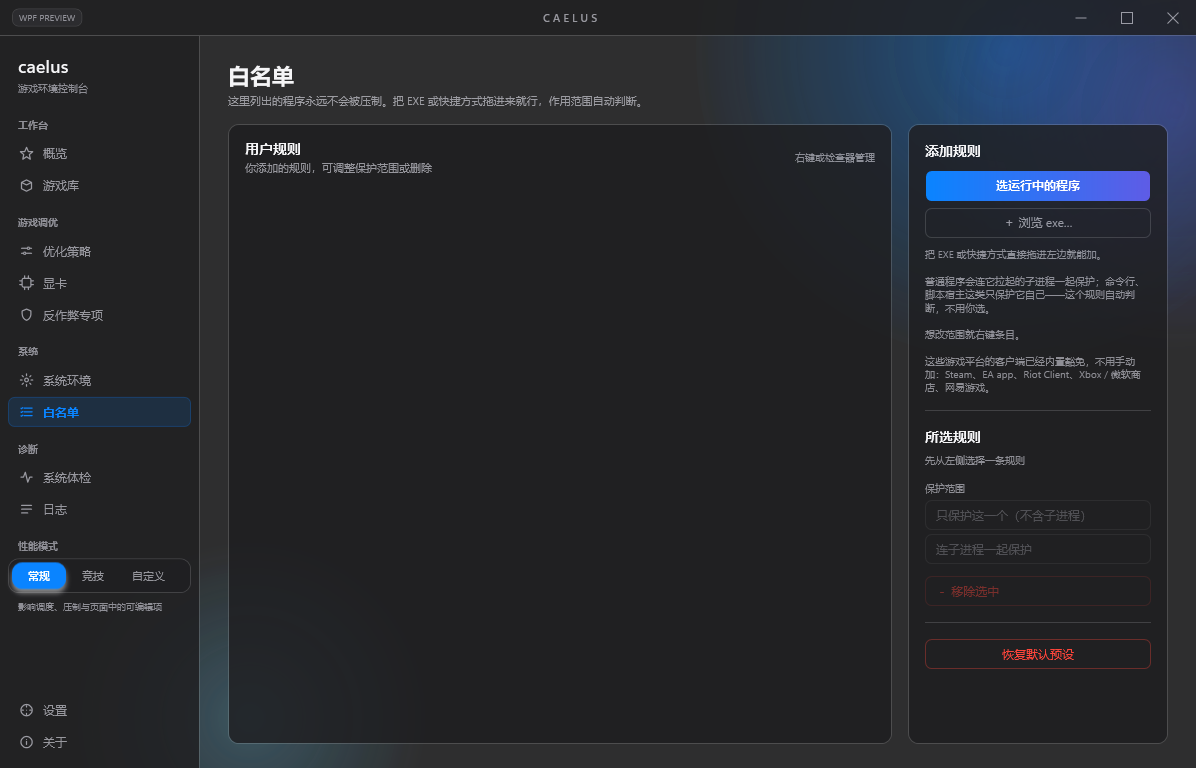
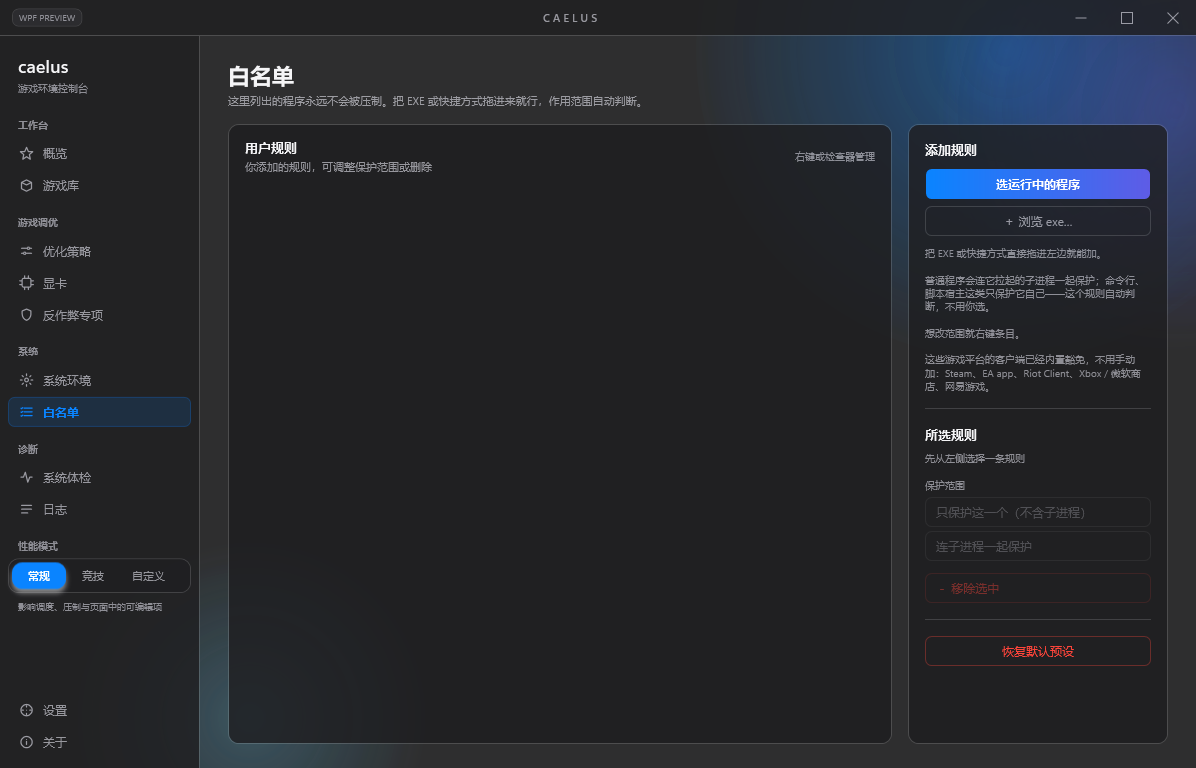
fix: 区域小标题档位对齐 FontSizeRegion + 乱码修复 + 字号令牌补全

diff --git a/wpf/Views/WhitelistView.xaml b/wpf/Views/WhitelistView.xaml
@@ -15,7 +15,7 @@
       <Border Grid.Column="0" x:Name="ZoneLeft" Style="{DynamicResource SettingsGroup}" Padding="0">
         <Grid><Grid.RowDefinitions><RowDefinition Height="Auto"/><RowDefinition Height="*"/></Grid.RowDefinitions>
           <Grid Grid.Row="0" Margin="16,14,16,10"><Grid.ColumnDefinitions><ColumnDefinition Width="*"/><ColumnDefinition Width="Auto"/></Grid.ColumnDefinitions>
-            <StackPanel><TextBlock Text="用户规则" FontSize="{DynamicResource FontSizeBody}" FontWeight="SemiBold" Foreground="{DynamicResource TextPrimaryBrush}"/><TextBlock Text="你添加的规则，可调整保护范围或删除" Margin="0,3,0,0" FontSize="{DynamicResource FontSizeSmall}" Foreground="{DynamicResource TextSecondaryBrush}"/></StackPanel>
+            <StackPanel><TextBlock Text="用户规则" FontSize="{DynamicResource FontSizeRegion}" FontWeight="SemiBold" Foreground="{DynamicResource TextPrimaryBrush}"/><TextBlock Text="你添加的规则，可调整保护范围或删除" Margin="0,3,0,0" FontSize="{DynamicResource FontSizeSmall}" Foreground="{DynamicResource TextSecondaryBrush}"/></StackPanel>
             <TextBlock Grid.Column="1" Text="右键或检查器管理" VerticalAlignment="Center" FontSize="{DynamicResource FontSizeXs}" Foreground="{DynamicResource TextTertiaryBrush}"/>
           </Grid>
           <Grid Grid.Row="1">
@@ -45,12 +45,12 @@
       <Border Grid.Column="2" x:Name="ZoneRight" Style="{DynamicResource SettingsGroup}" Padding="0">
         <ScrollViewer VerticalScrollBarVisibility="Auto" HorizontalScrollBarVisibility="Disabled">
           <StackPanel Margin="16">
-            <TextBlock Text="添加规则" FontSize="{DynamicResource FontSizeBody}" FontWeight="SemiBold" Foreground="{DynamicResource TextPrimaryBrush}" Margin="0,0,0,10"/>
+            <TextBlock Text="添加规则" FontSize="{DynamicResource FontSizeRegion}" FontWeight="SemiBold" Foreground="{DynamicResource TextPrimaryBrush}" Margin="0,0,0,10"/>
             <Button Style="{DynamicResource PrimaryButton}" Click="OnPickClick" Content="{Binding PickText}" HorizontalAlignment="Stretch" AutomationProperties.Name="从运行中的程序添加白名单规则"/>
             <Button Style="{DynamicResource GhostButton}" Click="OnBrowseClick" Content="{Binding BrowseText}" HorizontalAlignment="Stretch" Margin="0,6,0,0" AutomationProperties.Name="浏览可执行文件并添加白名单规则"/>
             <TextBlock Text="{Binding DropHint}" FontSize="{DynamicResource FontSizeXs}" Foreground="{DynamicResource TextTertiaryBrush}" TextWrapping="Wrap" Margin="0,10,0,0"/>
             <Rectangle Height="1" Fill="{DynamicResource BorderSubtleBrush}" Margin="0,16"/>
-            <TextBlock Text="所选规则" FontSize="{DynamicResource FontSizeBody}" FontWeight="SemiBold" Foreground="{DynamicResource TextPrimaryBrush}"/>
+            <TextBlock Text="所选规则" FontSize="{DynamicResource FontSizeRegion}" FontWeight="SemiBold" Foreground="{DynamicResource TextPrimaryBrush}"/>
             <TextBlock Text="先从左侧选择一条规则" FontSize="{DynamicResource FontSizeXs}" Foreground="{DynamicResource TextTertiaryBrush}" Margin="0,8,0,0"><TextBlock.Style><Style TargetType="TextBlock"><Setter Property="Visibility" Value="Collapsed"/><Style.Triggers><DataTrigger Binding="{Binding Selected}" Value="{x:Null}"><Setter Property="Visibility" Value="Visible"/></DataTrigger></Style.Triggers></Style></TextBlock.Style></TextBlock>
             <StackPanel Margin="0,8,0,0"><StackPanel.Style><Style TargetType="StackPanel"><Setter Property="Visibility" Value="Visible"/><Style.Triggers><DataTrigger Binding="{Binding Selected}" Value="{x:Null}"><Setter Property="Visibility" Value="Collapsed"/></DataTrigger></Style.Triggers></Style></StackPanel.Style><TextBlock Text="{Binding Selected.Title}" FontSize="{DynamicResource FontSizeSmall}" FontWeight="SemiBold" Foreground="{DynamicResource TextSecondaryBrush}" TextTrimming="CharacterEllipsis"/><TextBlock Text="路径或规则值" FontSize="{DynamicResource FontSizeXs}" Foreground="{DynamicResource TextTertiaryBrush}" Margin="0,10,0,3"/><TextBlock Text="{Binding Selected.InspectorValue}" FontFamily="{DynamicResource FontMono}" FontSize="{DynamicResource FontSizeXs}" Foreground="{DynamicResource TextSecondaryBrush}" TextWrapping="Wrap" ToolTip="{Binding Selected.InspectorValue}"/><TextBlock Text="规则类型" FontSize="{DynamicResource FontSizeXs}" Foreground="{DynamicResource TextTertiaryBrush}" Margin="0,10,0,3"/><TextBlock Text="{Binding Selected.RuleTypeText}" FontSize="{DynamicResource FontSizeSmall}" Foreground="{DynamicResource TextSecondaryBrush}"/><TextBlock Text="当前匹配" FontSize="{DynamicResource FontSizeXs}" Foreground="{DynamicResource TextTertiaryBrush}" Margin="0,10,0,3"/><TextBlock Text="{Binding Selected.MatchCountText}" FontSize="{DynamicResource FontSizeSmall}" Foreground="{DynamicResource TextSecondaryBrush}"/></StackPanel>
             <Border Padding="10,8" Margin="0,12,0,0"><Border.Style><Style TargetType="Border" BasedOn="{StaticResource WarningStatusBanner}"><Setter Property="Visibility" Value="Collapsed"/><Style.Triggers><DataTrigger Binding="{Binding Selected.Required}" Value="True"><Setter Property="Visibility" Value="Visible"/></DataTrigger></Style.Triggers></Style></Border.Style><TextBlock Text="{Binding Selected.LockReason}" FontSize="{DynamicResource FontSizeXs}" Foreground="{DynamicResource TextSecondaryBrush}" TextWrapping="Wrap"/></Border>

diff --git a/wpf/Dialogs/RunningPickerDialogWpf.xaml b/wpf/Dialogs/RunningPickerDialogWpf.xaml
@@ -37,7 +37,7 @@
                    AutomationProperties.HelpText="按程序名称或可执行文件路径筛选"/>
           <TextBlock x:Name="FilterHint" Text="搜索名称或路径" Margin="11,0,0,0"
                      VerticalAlignment="Center" IsHitTestVisible="False"
-                     FontSize="11" Foreground="{DynamicResource TextTertiaryBrush}"/>
+                     FontSize="{DynamicResource FontSizeSmall}" Foreground="{DynamicResource TextTertiaryBrush}"/>
         </Grid>
         <Button Grid.Column="1" x:Name="BtnSelectAll" Content="全选" Click="OnSelectAll"
                 Style="{DynamicResource GhostButton}" Padding="12,7" Margin="10,0,0,0"
@@ -57,7 +57,7 @@
             <ColumnDefinition Width="*"/>
             <ColumnDefinition Width="Auto"/>
           </Grid.ColumnDefinitions>
-          <TextBlock Text="运行中的程序" FontSize="{DynamicResource FontSizeBody}" FontWeight="SemiBold"
+          <TextBlock Text="运行中的程序" FontSize="{DynamicResource FontSizeRegion}" FontWeight="SemiBold"
                      Foreground="{DynamicResource TextPrimaryBrush}"/>
           <TextBlock Grid.Column="1" Text="空格勾选 · Ctrl+A 全选 · 回车添加" FontSize="{DynamicResource FontSizeXs}"
                      Foreground="{DynamicResource TextTertiaryBrush}" VerticalAlignment="Center"/>
@@ -99,7 +99,7 @@
                       </Style>
                     </Border.Style>
                     <TextBlock Text="{Binding Initial}" HorizontalAlignment="Center" VerticalAlignment="Center"
-                               FontSize="11" FontWeight="SemiBold" Foreground="{DynamicResource ModeAccentBrush}"/>
+                               FontSize="{DynamicResource FontSizeSmall}" FontWeight="SemiBold" Foreground="{DynamicResource ModeAccentBrush}"/>
                   </Border>
                   <Image Source="{Binding Icon}" Stretch="Uniform" SnapsToDevicePixels="True"
                          AutomationProperties.Name="程序图标"/>
@@ -131,7 +131,7 @@
         <ColumnDefinition Width="Auto"/>
       </Grid.ColumnDefinitions>
       <TextBlock Grid.Column="0" x:Name="LblInfo" Text="正在看有哪些程序开着…"
-                 FontSize="11" Foreground="{DynamicResource TextSecondaryBrush}"
+                 FontSize="{DynamicResource FontSizeSmall}" Foreground="{DynamicResource TextSecondaryBrush}"
                  TextWrapping="Wrap" VerticalAlignment="Center"
                  AutomationProperties.Name="扫描状态"/>
       <Button Grid.Column="1" x:Name="BtnRefresh" Content="刷新" Click="OnRefresh"

diff --git a/wpf/Dialogs/LolAddonDialogWpf.xaml b/wpf/Dialogs/LolAddonDialogWpf.xaml
@@ -29,7 +29,7 @@
     <Border Grid.Row="1" Style="{DynamicResource SettingsGroup}" Margin="0,0,0,12">
       <Border Style="{DynamicResource SettingsRow}">
         <TextBlock Text="删完后客户端更新可能会重新下载这些组件。英雄联盟、WeGame 或反作弊运行时不会执行删除。"
-                   FontSize="11" Foreground="{DynamicResource TextSecondaryBrush}" TextWrapping="Wrap"/>
+                   FontSize="{DynamicResource FontSizeSmall}" Foreground="{DynamicResource TextSecondaryBrush}" TextWrapping="Wrap"/>
       </Border>
     </Border>
 
@@ -59,7 +59,7 @@
                      Margin="12,0,0,0" IsIndeterminate="True" Visibility="Collapsed"
                      AutomationProperties.Name="附加层操作进度"/>
         <TextBlock x:Name="LblStatus" Text="选择英雄联盟安装目录，或把目录拖到窗口中"
-                   FontSize="11" Foreground="{DynamicResource TextSecondaryBrush}" TextWrapping="Wrap"
+                   FontSize="{DynamicResource FontSizeSmall}" Foreground="{DynamicResource TextSecondaryBrush}" TextWrapping="Wrap"
                    AutomationProperties.Name="附加层检查状态"/>
       </DockPanel>
     </Border>
@@ -75,7 +75,7 @@
             <ColumnDefinition Width="*"/>
             <ColumnDefinition Width="Auto"/>
           </Grid.ColumnDefinitions>
-          <TextBlock Text="将处理的全部候选项" FontSize="{DynamicResource FontSizeBody}" FontWeight="SemiBold"
+          <TextBlock Text="将处理的全部候选项" FontSize="{DynamicResource FontSizeRegion}" FontWeight="SemiBold"
                      Foreground="{DynamicResource TextPrimaryBrush}"/>
           <TextBlock Grid.Column="1" Text="列表仅供确认范围" FontSize="{DynamicResource FontSizeXs}"
                      Foreground="{DynamicResource TextTertiaryBrush}" VerticalAlignment="Center"/>
@@ -100,7 +100,7 @@
                                Foreground="{DynamicResource TextTertiaryBrush}" TextWrapping="Wrap"/>
                   </StackPanel>
                   <TextBlock Grid.Column="1" Text="{Binding State}" Margin="14,0,4,0"
-                             VerticalAlignment="Center" FontSize="11"
+                             VerticalAlignment="Center" FontSize="{DynamicResource FontSizeSmall}"
                              Foreground="{Binding StateBrush}"/>
                 </Grid>
               </Border>

diff --git a/wpf/Dialogs/DefenderExclusionDialogWpf.xaml b/wpf/Dialogs/DefenderExclusionDialogWpf.xaml
@@ -28,10 +28,10 @@
             BorderBrush="{DynamicResource DangerBrush}">
       <Border Style="{DynamicResource SettingsRow}">
         <StackPanel>
-          <TextBlock Text="这是拿安全换性能" FontSize="{DynamicResource FontSizeBody}" FontWeight="SemiBold"
+          <TextBlock Text="这是拿安全换性能" FontSize="{DynamicResource FontSizeRegion}" FontWeight="SemiBold"
                      Foreground="{DynamicResource DangerBrush}"/>
           <TextBlock Text="被排除的目录不再被实时扫描，其中的恶意文件不会被拦截。只排除你信任来源的游戏。"
-                     Margin="0,5,0,0" FontSize="11" TextWrapping="Wrap"
+                     Margin="0,5,0,0" FontSize="{DynamicResource FontSizeSmall}" TextWrapping="Wrap"
                      Foreground="{DynamicResource TextSecondaryBrush}"/>
         </StackPanel>
       </Border>
@@ -42,7 +42,7 @@
         <ProgressBar x:Name="BusyIndicator" DockPanel.Dock="Right" Width="92" Height="4"
                      Margin="12,0,0,0" IsIndeterminate="True" Visibility="Collapsed"
                      AutomationProperties.Name="Defender 操作进度"/>
-        <TextBlock x:Name="LblStatus" Text="正在读取 Defender 状态…" FontSize="11"
+        <TextBlock x:Name="LblStatus" Text="正在读取 Defender 状态…" FontSize="{DynamicResource FontSizeSmall}"
                    Foreground="{DynamicResource TextSecondaryBrush}" TextWrapping="Wrap"
                    AutomationProperties.Name="Defender 状态"/>
       </DockPanel>
@@ -69,7 +69,7 @@
                                TextTrimming="CharacterEllipsis"/>
                   </StackPanel>
                   <TextBlock Grid.Column="1" Text="{Binding StateText}" Margin="14,0,12,0"
-                             VerticalAlignment="Center" FontSize="11" FontWeight="SemiBold"
+                             VerticalAlignment="Center" FontSize="{DynamicResource FontSizeSmall}" FontWeight="SemiBold"
                              Foreground="{Binding StateBrush}"/>
                   <ToggleButton Grid.Column="2" IsChecked="{Binding Excluded, Mode=OneWay}"
                                 Style="{DynamicResource PolicyToggle}" VerticalAlignment="Center"

diff --git a/wpf/Dialogs/AddGameDialogWpf.xaml b/wpf/Dialogs/AddGameDialogWpf.xaml
@@ -36,7 +36,7 @@
                    AutomationProperties.HelpText="按游戏名称或可执行文件路径筛选"/>
           <TextBlock x:Name="FilterHint" Text="搜索名称或路径" Margin="11,0,0,0"
                      VerticalAlignment="Center" IsHitTestVisible="False"
-                     FontSize="11" Foreground="{DynamicResource TextTertiaryBrush}"/>
+                     FontSize="{DynamicResource FontSizeSmall}" Foreground="{DynamicResource TextTertiaryBrush}"/>
         </Grid>
         <Button Grid.Column="1" x:Name="BtnSelectAll" Content="全选" Click="OnSelectAll"
                 Style="{DynamicResource GhostButton}" Padding="12,7" Margin="10,0,0,0"
@@ -55,7 +55,7 @@
             <ColumnDefinition Width="*"/>
             <ColumnDefinition Width="Auto"/>
           </Grid.ColumnDefinitions>
-          <TextBlock Text="扫描结果" FontSize="{DynamicResource FontSizeBody}" FontWeight="SemiBold"
+          <TextBlock Text="扫描结果" FontSize="{DynamicResource FontSizeRegion}" FontWeight="SemiBold"
                      Foreground="{DynamicResource TextPrimaryBrush}"/>
           <StackPanel Grid.Column="1" Orientation="Horizontal" VerticalAlignment="Center">
             <ProgressBar x:Name="ScanProgress" Width="72" Height="3" Margin="0,0,10,0"
@@ -122,7 +122,7 @@
         <RowDefinition Height="Auto"/>
         <RowDefinition Height="Auto"/>
       </Grid.RowDefinitions>
-      <TextBlock Grid.Row="0" x:Name="LblInfo" Text="正在扫描…" FontSize="11"
+      <TextBlock Grid.Row="0" x:Name="LblInfo" Text="正在扫描…" FontSize="{DynamicResource FontSizeSmall}"
                  Foreground="{DynamicResource TextSecondaryBrush}" TextWrapping="Wrap"
                  AutomationProperties.Name="扫描状态"/>
       <Grid Grid.Row="1" Margin="0,12,0,0">

diff --git a/wpf/Views/AntiCheatView.xaml b/wpf/Views/AntiCheatView.xaml
@@ -56,7 +56,7 @@
           </Grid.ColumnDefinitions>
           <StackPanel Grid.Column="0">
             <StackPanel Orientation="Horizontal">
-              <TextBlock FontSize="24" FontWeight="SemiBold" Foreground="{DynamicResource TextPrimaryBrush}"
+              <TextBlock FontSize="{DynamicResource FontSizeMetric}" FontWeight="SemiBold" Foreground="{DynamicResource TextPrimaryBrush}"
                          Typography.NumeralAlignment="Tabular" VerticalAlignment="Center">
                 <Run Text="{Binding EnabledGroupCount, Mode=OneWay}"/><Run Text="/" Foreground="{DynamicResource TextTertiaryBrush}"/><Run Text="{Binding TotalGroupCount, Mode=OneWay}"/>
               </TextBlock>

diff --git a/wpf/Views/PolicyView.xaml b/wpf/Views/PolicyView.xaml
@@ -67,7 +67,7 @@
             <ColumnDefinition Width="*"/>
           </Grid.ColumnDefinitions>
           <StackPanel Grid.Column="0" Orientation="Horizontal" VerticalAlignment="Center">
-            <TextBlock FontSize="24" FontWeight="SemiBold"
+            <TextBlock FontSize="{DynamicResource FontSizeMetric}" FontWeight="SemiBold"
                        Foreground="{DynamicResource TextPrimaryBrush}"
                        Typography.NumeralAlignment="Tabular">
               <Run Text="{Binding TotalEnabled, Mode=OneWay}"/><Run Text="/" Foreground="{DynamicResource TextTertiaryBrush}"/><Run Text="{Binding TotalCount, Mode=OneWay}"/>

diff --git a/wpf/Views/AuditView.xaml b/wpf/Views/AuditView.xaml
@@ -167,7 +167,7 @@
                                    AutomationProperties.Name="体检进度"/>
             <StackPanel VerticalAlignment="Center" HorizontalAlignment="Center">
               <TextBlock Text="{Binding Progress, StringFormat=P0, Mode=OneWay}"
-                         FontSize="22" FontWeight="SemiBold"
+                         FontSize="{DynamicResource FontSizeSection}" FontWeight="SemiBold"
                          Foreground="{DynamicResource TextPrimaryBrush}"
                          Typography.NumeralAlignment="Tabular"
                          HorizontalAlignment="Center"/>

diff --git a/wpf/Views/GraphicsView.xaml b/wpf/Views/GraphicsView.xaml
@@ -27,7 +27,7 @@
           </Grid.ColumnDefinitions>
           <StackPanel Grid.Column="0" VerticalAlignment="Center">
             <TextBlock Text="{Binding EnabledSummaryText, Mode=OneWay}"
-                       FontSize="14" FontWeight="SemiBold"
+                       FontSize="{DynamicResource FontSizeBody}" FontWeight="SemiBold"
                        Foreground="{DynamicResource TextPrimaryBrush}"/>
             <TextBlock Text="普通开关状态实时统计，不含档位选择与维护操作。"
                        Margin="0,3,0,0" FontSize="{DynamicResource FontSizeXs}"

diff --git a/wpf/MainWindow.xaml b/wpf/MainWindow.xaml
@@ -39,7 +39,7 @@
 
         <!-- 居中窗口标题 -->
         <TextBlock Grid.Column="1" Text="C A E L U S" HorizontalAlignment="Center"
-                   VerticalAlignment="Center" FontSize="11" FontWeight="SemiBold"
+                   VerticalAlignment="Center" FontSize="{DynamicResource FontSizeSmall}" FontWeight="SemiBold"
                    Foreground="{DynamicResource TextSecondaryBrush}"/>
 
         <!-- 最小化/最大化/关闭（Windows 11 风格：悬停淡底，关闭悬停变红） -->

diff --git a/wpf/Views/EnvironmentView.xaml b/wpf/Views/EnvironmentView.xaml
@@ -3,7 +3,7 @@
              xmlns:x="http://schemas.microsoft.com/winfx/2006/xaml"
              xmlns:ctl="clr-namespace:CaelusApp.WpfHost.Controls"
              xmlns:local="clr-namespace:CaelusApp.WpfHost"
-             AutomationProperties.Name="绯荤粺鐜">
+             AutomationProperties.Name="系统环境">
   <UserControl.Resources>
     <BooleanToVisibilityConverter x:Key="BoolVis"/>
 
